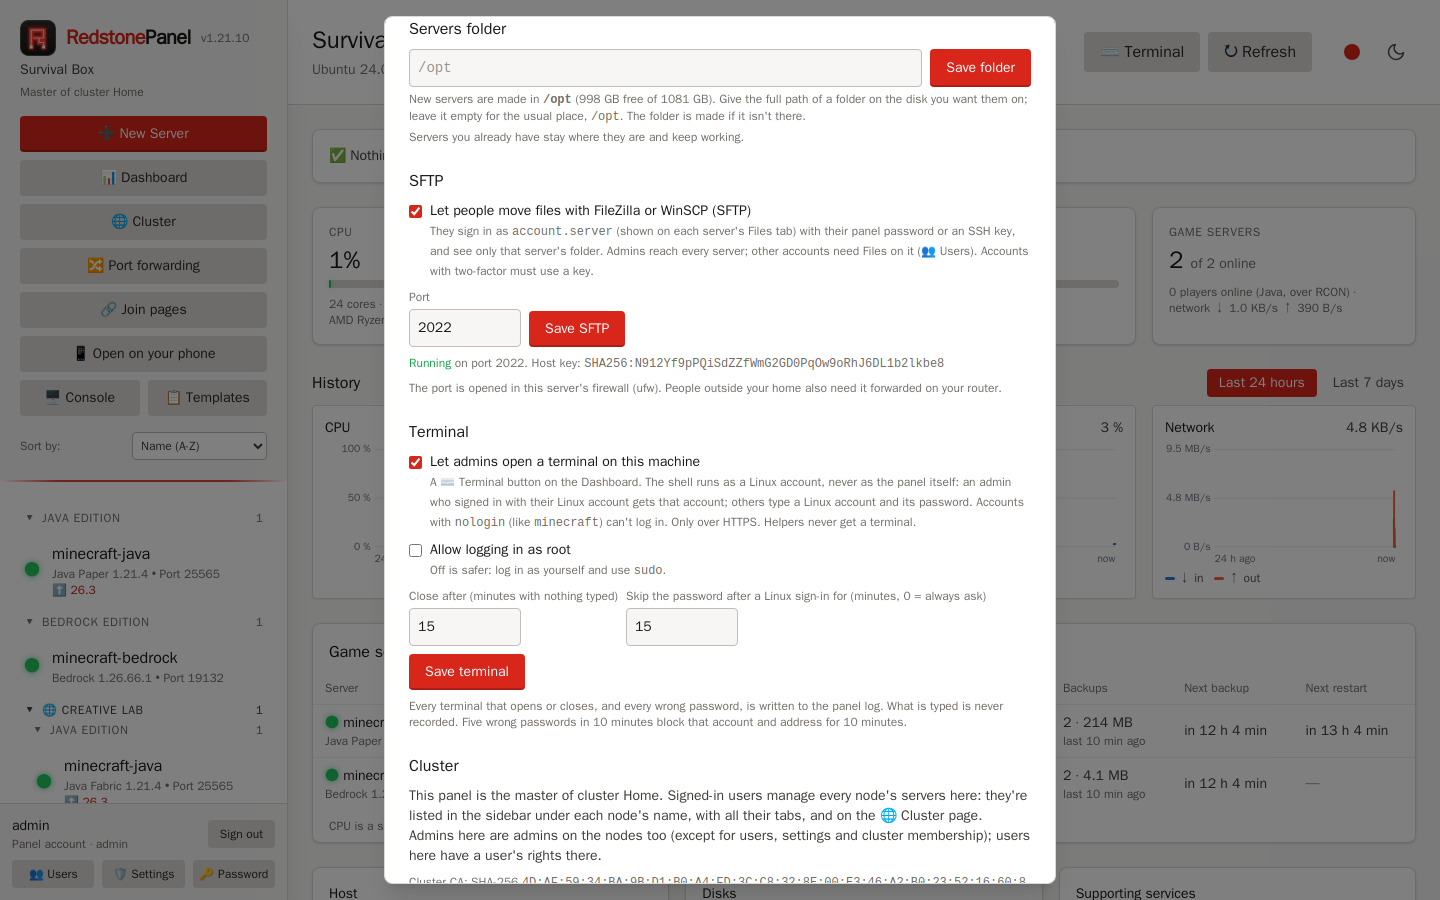
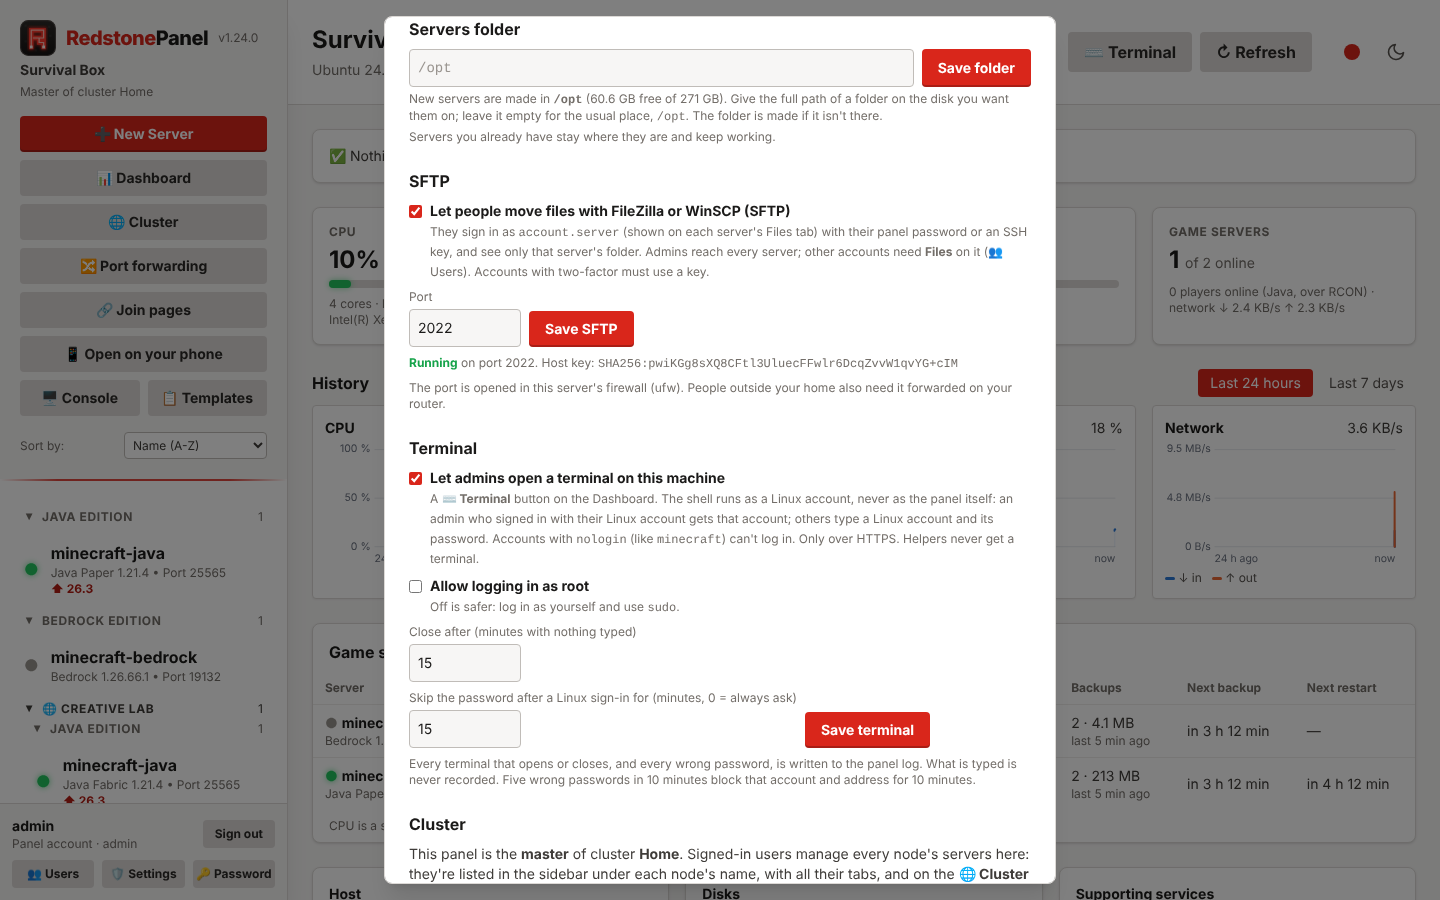
Release 1.24.0: mixed Linux and Windows clusters
Version, changelog, release notes, What's New, README, roadmap. Screenshots
retaken where the screen changed (Cluster, Panel Settings: members say Linux
or Windows) and new ones for Windows Hello (sign-in page, Passkeys).

Claude-Session: https://claude.ai/code/session_01S6K3gvf98A19D8ttWvnG2W

diff --git a/release-notes/v1.24.0.md b/release-notes/v1.24.0.md
@@ -1,0 +1,78 @@
+RedstonePanel clusters now mix Linux and Windows: a Windows PC can be a cluster's master or one of its nodes, and servers and backups move between the two. Windows panels also get SFTP, Windows Hello sign-in and an easier first password, and Windows is no longer a preview.
+
+## New
+
+- **Mixed Linux and Windows clusters.** Join a Windows panel to a Linux master, or the other way round. Join codes come with the command for each system, and the **Cluster** page and **Panel Settings** say **Linux** or **Windows** for each member.
+
+- **Moves both ways.** Java servers move unchanged. A Bedrock server gets the new machine's own Bedrock program, of the version it ran where minecraft.net still has it. Before a move or restore onto Windows, the panel checks for file names Windows can't hold (names that differ only by case, names with `:` or a trailing dot, reserved names like `aux`) and refuses with the list, before anything stops.
+
+- **Backups across systems.** Backup copies on another member, restores from them, and encrypted cluster backups work between Linux and Windows.
+
+- **SFTP on Windows** (FileZilla, WinSCP), as on Linux. **HTTPS with your own certificate** now picks up a certificate that win-acme or certbot renewed, by itself.
+
+- **Sign in with Windows Hello** on a Windows panel. Add a passkey under **🔑 Password**, then click **Sign in with Windows Hello**: your face, fingerprint or Windows Hello PIN, with no user name. Only a public key is stored, and it counts as two-factor sign-in. Passkeys work at `localhost` or a host name over HTTPS. Linux panels keep Linux accounts, panel accounts and two-factor codes.
+
+- **An easier first password on Windows.** The installer's **Finish** page opens the panel on a one-time page to choose the **admin** password. **RedstonePanel** in the Start menu opens the panel later, at the right address.
+
+- **`redstonepanel reset-password NAME`** sets a forgotten panel password from an administrator prompt (with `sudo` on Linux) and signs that account out everywhere.
+
+- **Accounts in a cluster** are explained in the manual: each panel keeps its own accounts, and the master's accounts manage the servers on every node.
+
+![Windows Hello on the sign-in page of a Windows panel](https://raw.githubusercontent.com/qrussell/redstonepanel/v1.24.0/docs/guide/images/windows-hello.png)
+
+See [Clusters](https://github.com/qrussell/redstonepanel/blob/main/docs/guide/README.md#18-clusters) and [Windows Hello](https://github.com/qrussell/redstonepanel/blob/main/docs/guide/README.md#windows-hello-passkeys) in the manual.
+
+## Fixed
+
+- **A server moved away and back keeps its name**, numbered (`minecraft-survival-2`) when its old copy is still there, instead of taking the next free name.
+- **Start, stop and restart of a server on a node** no longer report an error while the node is still starting it: the master waits up to three minutes for the answer.
+
+## Upgrading an existing panel
+
+Nothing to do. On Windows, click **Update now** on the dashboard, or run `RedstonePanel-1.24.0-x64.msi` below. In a cluster, update the master and its nodes; a member on 1.23 can't join a mixed cluster.
+
+Tested: 1,178 unit tests, including passkeys checked with a test authenticator; the whole sign-in flow in a real browser; the Windows install and installer tests on Windows Server 2022 and 2025 (SFTP, a Windows master with an encrypted backup read back, archives with bad names refused, the first-password link); the Linux install and cluster tests on every supported system; and a real mixed cluster on a Windows PC with a Linux master, with Java and Bedrock moves both ways, backup copies both ways, a restore across and SFTP on the node.
+
+## Installing on Windows
+
+1. Download `RedstonePanel-1.24.0-x64.msi` below and open it. It isn't signed yet, so SmartScreen says **Windows protected your PC**: choose **More info**, then **Run anyway**. Its SHA-256 is in `RedstonePanel-1.24.0-x64.msi.sha256` next to it.
+2. Choose where servers, backups and settings are kept. The default is `C:\ProgramData\RedstonePanel`, and the folder's name can't have a space in it.
+3. Leave **Open RedstonePanel in my browser** ticked and click **Finish**, then choose your password for **admin**. Or sign in with your own Windows administrator account.
+
+See [On Windows](https://github.com/qrussell/redstonepanel/blob/main/docs/guide/README.md#on-windows) in the manual.
+
+## Installing
+
+RedstonePanel runs on **Ubuntu 24.04, 26.04 and 26.10**, **Debian 13** and **64-bit Raspberry Pi OS** (Raspberry Pi 4 or 5), on x86-64 and ARM64. See [Supported systems](https://github.com/qrussell/redstonepanel#supported-systems). The easiest way to install it, and to get every later version with `apt upgrade`, is the signed **qrussell-repo** apt repository:
+
+```bash
+sudo apt install -y curl ca-certificates
+curl -fsSL https://qrussell.github.io/qrussell-repo/deb/qrussell-repo.gpg | sudo tee /usr/share/keyrings/qrussell-repo.gpg >/dev/null
+echo "deb [signed-by=/usr/share/keyrings/qrussell-repo.gpg] https://qrussell.github.io/qrussell-repo/deb ./" | sudo tee /etc/apt/sources.list.d/qrussell.list
+sudo apt update
+sudo apt install redstonepanel
+```
+
+Or in one line: `curl -fsSL https://raw.githubusercontent.com/qrussell/redstonepanel/main/install.sh | sudo sh`
+
+Then open **http://&lt;server&gt;:8080/** and sign in with a Linux account in the `sudo` group.
+
+To check the repository key before trusting it, `gpg --show-keys /usr/share/keyrings/qrussell-repo.gpg` should show the fingerprint `9994A9EB39EB3C101C949FB2012BA14E0FE3A355`.
+
+Prefer not to add a repository? Download `redstonepanel_1.24.0_all.deb` below and run `sudo apt install ./redstonepanel_1.24.0_all.deb`. You then install each new version the same way.
+
+The [user manual](https://github.com/qrussell/redstonepanel/blob/main/docs/guide/README.md) walks through every feature, with screenshots.
+
+## Upgrading
+
+If you use the qrussell-repo repository:
+
+```bash
+sudo apt update && sudo apt upgrade
+```
+
+New versions reach the repository within a few hours of their release. Otherwise, install the new .deb as above.
+
+Running servers keep running through the upgrade.
+
+**Full Changelog**: https://github.com/qrussell/redstonepanel/compare/v1.23.2...v1.24.0

diff --git a/docs/wiki/Roadmap.md b/docs/wiki/Roadmap.md
@@ -40,7 +40,7 @@ show everything the panel does. It arrives in four releases:
   `sudo redstonepanel uninstall` back up your servers and ask what happens to each one (stop it
   and keep its files, keep it running, or delete it) before removing the panel, so no server is
   left running with nothing to manage it by accident.
-- **1.24: mixed clusters.** Windows and Linux machines in one cluster, with either as the
+- **1.24: mixed clusters** *(released)*. Windows and Linux machines in one cluster, with either as the
   master, and servers and backup copies moving between them. Bedrock servers get the new
   machine's program; a move to Windows is refused, with the list, when the folder holds file
   names Windows can't (checked before anything stops). SFTP on Windows, and Let's Encrypt
@@ -89,4 +89,4 @@ close the gaps people most often notice when choosing a panel.
 
 ## Recently shipped
 
-See [What's New](Whats-New.md). The latest: **1.23.2** lets you remove the panel safely, choosing what happens to each server first; **1.23.1** adds a port check that finds port conflicts, names the other program and fixes what it safely can; **1.23** brings Bedrock, more loaders and modpacks, limits, off-site backups, Update now and Windows sign-in to Windows; **1.22** is the Windows preview: an installer for Windows 11 and Server 2022 or 2025 that runs Java servers on one computer; **1.21.10** opens a shell on the machine in your browser, for admins, as a Linux account; **1.21.9** lets HAProxy or Cloudflare serve the join pages on your own domain, and keeps upgrades from restarting game servers; **1.21.8** fixes security problems found by code scanning: the panel works in server folders with the game account's rights, so links there can't reach other files; **1.21.7** opens settings files such as `server.properties` and `eula.txt` on the Files tab in a Visual Editor like Configuration's; **1.21.6** adds player packs: the mods players need, built from the server's own mods folder and offered on its join page; **1.21.5** adds join pages: a public page per server that tells players how to join, on a port of its own; **1.21.4** adds quick commands to Live Chat: suggestions as you type, a form that builds the command and one-click buttons; **1.21.3** finds Minecraft servers set up outside the panel and can take them over in place, with undo; **1.21.2** makes light/dark mode a one-click switch in the top right corner; **1.21.1** lets you choose the disk and folder servers are kept in; **1.21** is groundwork for the Windows version, with nothing changed on screen; **1.20** adds Purpur, Quilt, NeoForge and Forge servers and modpacks from Modrinth or a CurseForge server pack; **1.19** changes a Java server's type in place (Vanilla, Paper, Fabric) with a backup and undo, and rolls back updates; **1.18** adds per-server permissions for helpers and SFTP for FileZilla or WinSCP; **1.17.2** adds Advanced options to New server (builds, Java, memory, limits, startup flags, world and settings); **1.17.1** explains why a server crashed and offers the fix; **1.17** adds performance charts, suggestions and memory and CPU limits; **1.16.14** adds the Port forwarding page, and **1.16.13** moves big worlds with seconds of downtime.
+See [What's New](Whats-New.md). The latest: **1.24** mixes Linux and Windows machines in one cluster and adds SFTP, Windows Hello sign-in and an easier first password on Windows; **1.23.2** lets you remove the panel safely, choosing what happens to each server first; **1.23.1** adds a port check that finds port conflicts, names the other program and fixes what it safely can; **1.23** brings Bedrock, more loaders and modpacks, limits, off-site backups, Update now and Windows sign-in to Windows; **1.22** is the Windows preview: an installer for Windows 11 and Server 2022 or 2025 that runs Java servers on one computer; **1.21.10** opens a shell on the machine in your browser, for admins, as a Linux account; **1.21.9** lets HAProxy or Cloudflare serve the join pages on your own domain, and keeps upgrades from restarting game servers; **1.21.8** fixes security problems found by code scanning: the panel works in server folders with the game account's rights, so links there can't reach other files; **1.21.7** opens settings files such as `server.properties` and `eula.txt` on the Files tab in a Visual Editor like Configuration's; **1.21.6** adds player packs: the mods players need, built from the server's own mods folder and offered on its join page; **1.21.5** adds join pages: a public page per server that tells players how to join, on a port of its own; **1.21.4** adds quick commands to Live Chat: suggestions as you type, a form that builds the command and one-click buttons; **1.21.3** finds Minecraft servers set up outside the panel and can take them over in place, with undo; **1.21.2** makes light/dark mode a one-click switch in the top right corner; **1.21.1** lets you choose the disk and folder servers are kept in; **1.21** is groundwork for the Windows version, with nothing changed on screen; **1.20** adds Purpur, Quilt, NeoForge and Forge servers and modpacks from Modrinth or a CurseForge server pack; **1.19** changes a Java server's type in place (Vanilla, Paper, Fabric) with a backup and undo, and rolls back updates; **1.18** adds per-server permissions for helpers and SFTP for FileZilla or WinSCP; **1.17.2** adds Advanced options to New server (builds, Java, memory, limits, startup flags, world and settings); **1.17.1** explains why a server crashed and offers the fix; **1.17** adds performance charts, suggestions and memory and CPU limits; **1.16.14** adds the Port forwarding page, and **1.16.13** moves big worlds with seconds of downtime.

diff --git a/docs/design/roadmap.md b/docs/design/roadmap.md
@@ -1,6 +1,6 @@
 # RedstonePanel roadmap
 
-Status: planning · Written after 1.5.0 (17 Nov 2026), updated for 1.23.2 (25 Nov 2026), with the release order revised the same day: moving servers between cluster members, a first-run setup guide, kick and ban with the redstone branding, a folding server list, two-factor sign-in (1.16.7), backups on another node (1.16.8), newer Ubuntu, Debian, ARM64 and Raspberry Pi (1.16.9), a phone-friendly panel (1.16.10), backups off the machine without a cluster (1.16.11) Bedrock auto-updates and update alerts (1.16.12) pre-copy and LAN discovery (1.16.13) a port forwarding guide (1.16.14), performance (1.17), crash explanations (1.17.1), Advanced options on New server (1.17.2), per-server permissions and SFTP (1.18), changing a server's type or version (1.19) Forge, NeoForge, Quilt, Purpur and modpacks (1.20) the groundwork for Windows (1.21) a servers folder you choose (1.21.1), a one-click light/dark switch (1.21.2), finding servers set up outside the panel (1.21.3), quick commands in Live Chat (1.21.4), join pages (1.21.5), player packs (1.21.6) a Visual Editor for settings files (1.21.7) security fixes from code scanning (1.21.8) join pages through a proxy (1.21.9) a terminal in the panel (1.21.10) the Windows preview (1.22) the whole single machine on Windows (1.23) a port check (1.23.1) and removing the panel safely (1.23.2) shipped; mixed clusters (1.24) and API tokens (2.0) next, with proposed additions below · Author: Quentin Russell
+Status: planning · Written after 1.5.0 (17 Nov 2026), updated for 1.24.0 (26 Nov 2026), with the release order revised the same day: moving servers between cluster members, a first-run setup guide, kick and ban with the redstone branding, a folding server list, two-factor sign-in (1.16.7), backups on another node (1.16.8), newer Ubuntu, Debian, ARM64 and Raspberry Pi (1.16.9), a phone-friendly panel (1.16.10), backups off the machine without a cluster (1.16.11) Bedrock auto-updates and update alerts (1.16.12) pre-copy and LAN discovery (1.16.13) a port forwarding guide (1.16.14), performance (1.17), crash explanations (1.17.1), Advanced options on New server (1.17.2), per-server permissions and SFTP (1.18), changing a server's type or version (1.19) Forge, NeoForge, Quilt, Purpur and modpacks (1.20) the groundwork for Windows (1.21) a servers folder you choose (1.21.1), a one-click light/dark switch (1.21.2), finding servers set up outside the panel (1.21.3), quick commands in Live Chat (1.21.4), join pages (1.21.5), player packs (1.21.6) a Visual Editor for settings files (1.21.7) security fixes from code scanning (1.21.8) join pages through a proxy (1.21.9) a terminal in the panel (1.21.10) the Windows preview (1.22) the whole single machine on Windows (1.23) a port check (1.23.1) removing the panel safely (1.23.2) and mixed Linux and Windows clusters with Windows Hello sign-in (1.24) shipped; API tokens (2.0) next, with proposed additions below · Author: Quentin Russell
 
 The public summary of this plan is [docs/wiki/Roadmap.md](../wiki/Roadmap.md); keep the two in
 step when either changes.
@@ -1813,7 +1813,7 @@ installs with an end-of-support note and isn't tested. Windows on ARM is left fo
     servers folder and Found servers were covered there by CI only); 1,065 unit tests; the
     Linux release workflow on every supported system and ARM64.
 
-29. **1.24: mixed Linux and Windows clusters.** Windows nodes and masters; members report
+29. **1.24: mixed Linux and Windows clusters** *(released Nov 2026)*. Windows nodes and masters; members report
     their system (`CLUSTER_API` goes up by one). Java servers move both ways unchanged;
     Bedrock servers move with their program downloaded again for the target system. Before a
     move or restore onto Windows the master checks for file names Windows can't hold (names

diff --git a/README.md b/README.md
@@ -107,6 +107,10 @@ see them in the other theme:
 
 The [user manual](docs/guide/README.md) walks through every feature with screenshots.
 
+## What's new in 1.24
+
+**Mixed Linux and Windows clusters**. A Windows PC can be a cluster's master or a node next to Linux machines, with servers and backup copies moving between them (Bedrock gets the new machine's own program, and a move onto Windows checks file names first). Windows gets SFTP, **Windows Hello** sign-in and an easier first password, and is no longer a preview. `redstonepanel reset-password` resets a forgotten panel password. See the [1.24.0 release notes](release-notes/v1.24.0.md).
+
 ## What's new in 1.23
 
 **Removing the panel safely** *(1.23.2)*. **Panel Settings → Remove RedstonePanel** and `sudo redstonepanel uninstall` back up your servers and ask what happens to each one (stop it and keep its files, keep it running without the panel, or delete it) before removing the panel, so no server is left running with nothing to manage it by accident. See the [1.23.2 release notes](release-notes/v1.23.2.md).

diff --git a/docs/wiki/Whats-New.md b/docs/wiki/Whats-New.md
@@ -9,6 +9,19 @@ the dashboard.
 
 ---
 
+## 1.24.0: mixed Linux and Windows clusters *(November 2026)*
+
+- A Windows PC can be a cluster's **master or a node** next to Linux machines. Java and Bedrock
+  servers move both ways (Bedrock gets the new machine's program), and a move onto Windows is
+  refused, with the list, when the server holds file names Windows can't.
+- Backup copies and restores work across systems. **SFTP** works on Windows. Windows is no
+  longer a preview.
+- Windows panels: **Sign in with Windows Hello** (face, fingerprint or PIN) once you add a
+  passkey under **🔑 Password**, and the installer opens a page to **choose the admin password**.
+- `redstonepanel reset-password NAME` sets a forgotten panel password.
+
+[Release notes](../../release-notes/v1.24.0.md)
+
 ## 1.23.2: removing the panel safely *(November 2026)*
 
 - **Panel Settings → Remove RedstonePanel** and `sudo redstonepanel uninstall` back up every

diff --git a/docs/guide/README.md b/docs/guide/README.md
@@ -363,6 +363,8 @@ keep Linux accounts, panel accounts and two-factor codes.
 2. Next time, click **Sign in with Windows Hello** on the sign-in page. No user name needed:
    the passkey says whose it is.
 
+<p><picture><source media="(prefers-color-scheme: light)" srcset="images/light/windows-hello.png"><img src="images/windows-hello.png" alt="The sign-in page of a Windows panel, with Sign in with Windows Hello" width="300"></picture> <picture><source media="(prefers-color-scheme: light)" srcset="images/light/passkeys.png"><img src="images/passkeys.png" alt="Passkeys (Windows Hello) under the Password button" width="340"></picture></p>
+
 It counts as two-factor sign-in on its own (the PC's key plus your face, finger or PIN), so it
 also meets **Require two-factor sign-in for admins**. Browsers allow passkeys only at a name,
 not an IP address, and only over HTTPS or at `http://localhost`, so it works at
